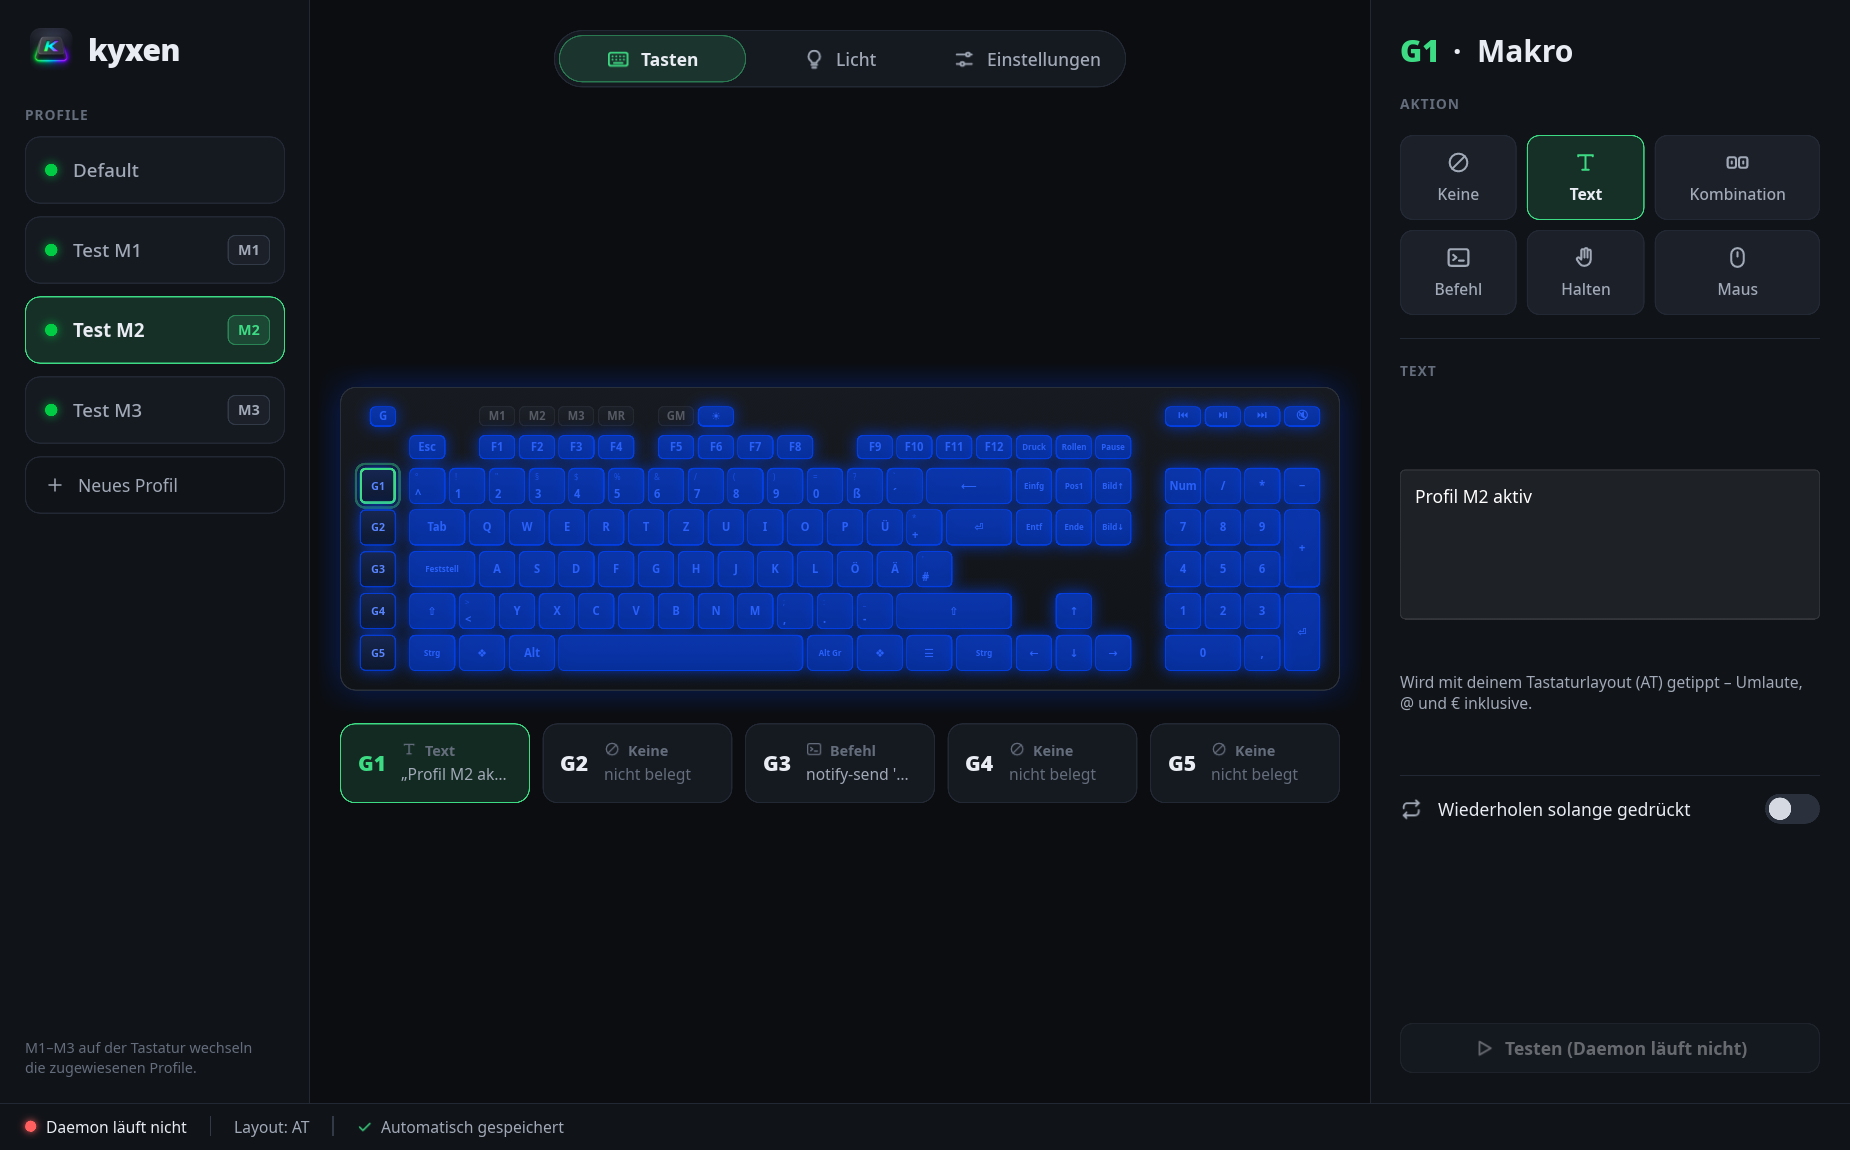
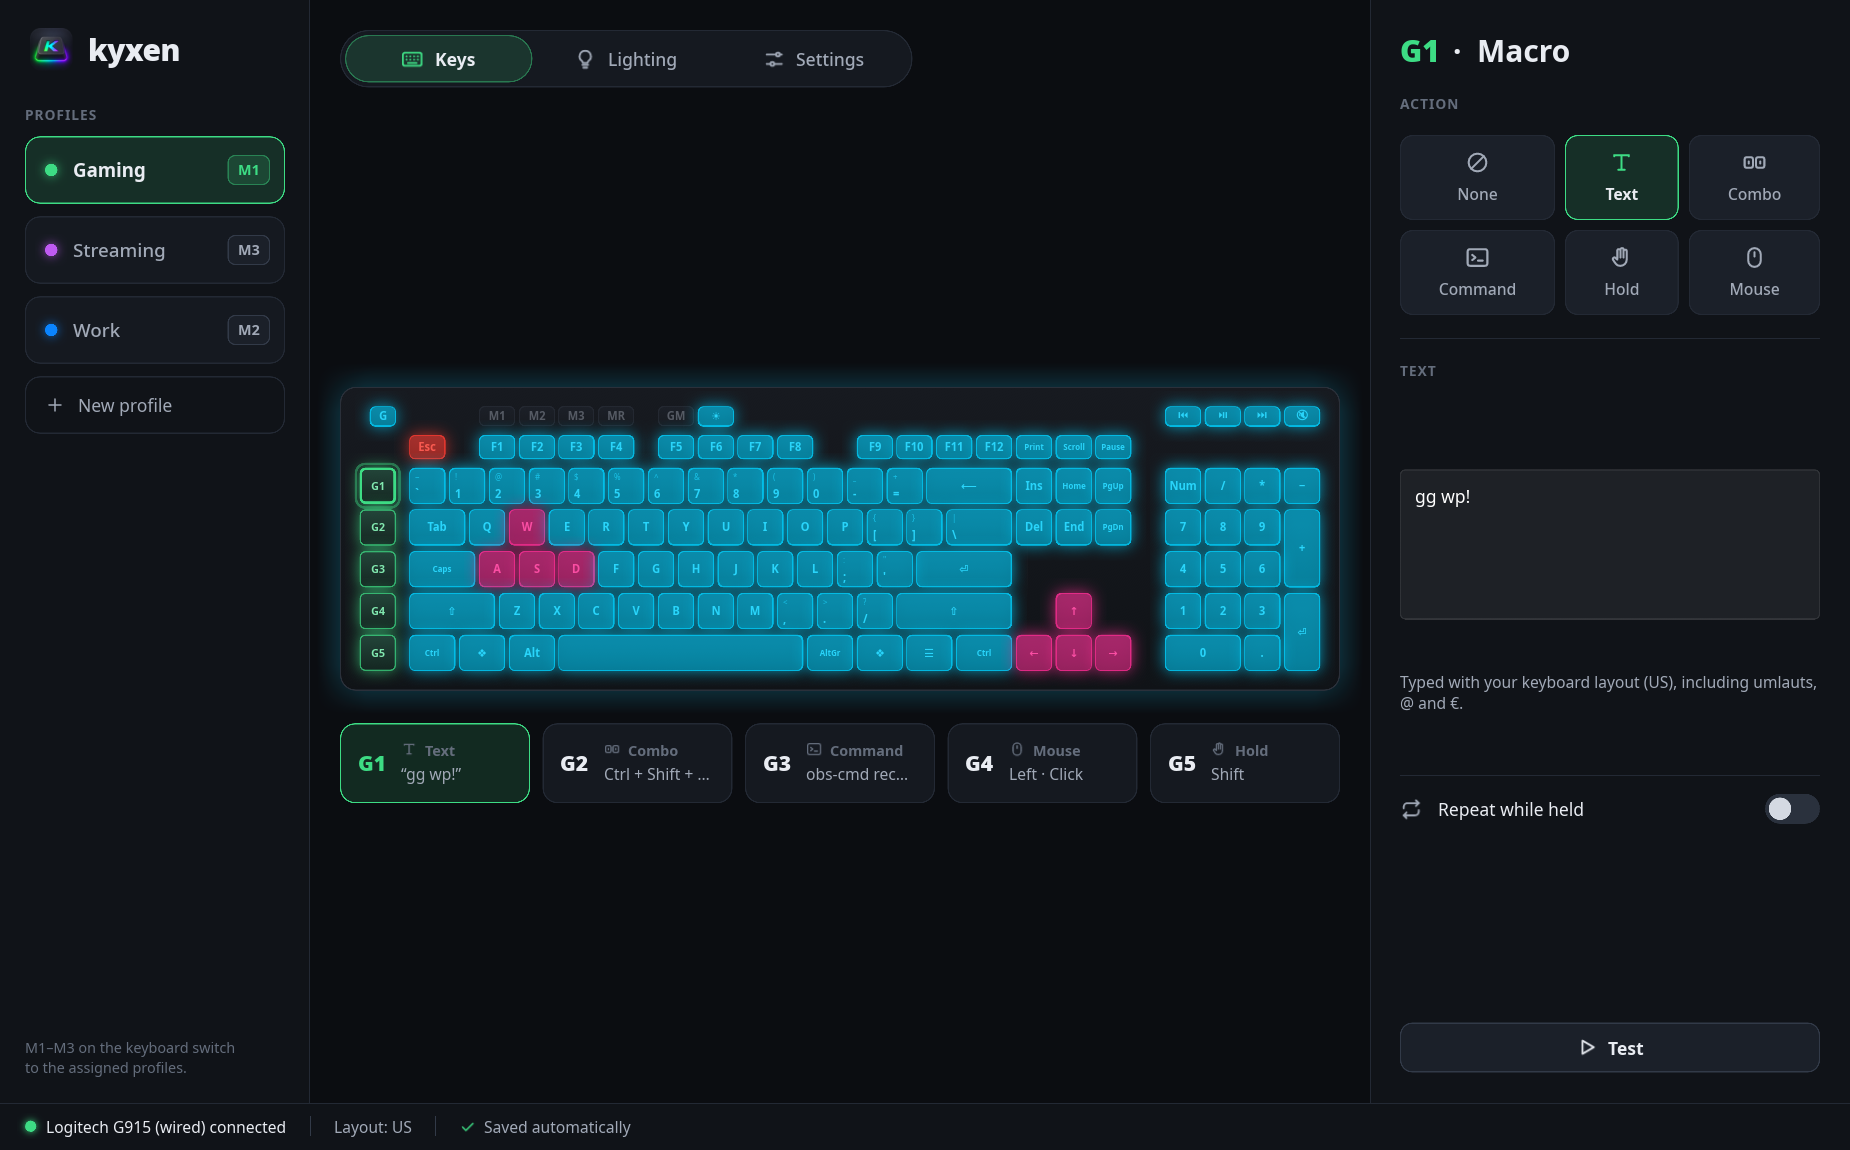
docs: English screenshots of the current app
Taken from a demo config (Gaming / Work / Streaming profiles, US layout).
The G-key summary quotes text in the UI language's quote marks.

Screenshot mode: --layout N.

diff --git a/crates/kyxen-gui/src/main.rs b/crates/kyxen-gui/src/main.rs
@@ -21,9 +21,9 @@ use slint::{ComponentHandle, Timer, TimerMode};
 use tracing_subscriber::EnvFilter;
 pub use ui::*;
 
-/// `--screenshot <file.png> [--tab N] [--gkey N] [--effect N] [--lang N] [--form N]`:
+/// `--screenshot <file.png> [--tab N] [--gkey N] [--effect N] [--lang N] [--form N] [--layout N]`:
 /// render the window after it settled, save it and exit (for visual checks).
-/// `--lang` / `--form` pick the settings choices (0 = automatic).
+/// `--lang` / `--form` / `--layout` pick the settings choices (0 = automatic).
 struct Shot {
     path: String,
     tab: i32,
@@ -31,6 +31,7 @@ struct Shot {
     effect: Option<i32>,
     lang: Option<i32>,
     form: Option<i32>,
+    layout: Option<i32>,
 }
 
 fn parse_shot() -> Option<Shot> {
@@ -47,6 +48,7 @@ fn parse_shot() -> Option<Shot> {
         gkey: value("--gkey").and_then(|v| v.parse().ok()).unwrap_or(1),
         effect: value("--effect").and_then(|v| v.parse().ok()),
         lang: value("--lang").and_then(|v| v.parse().ok()),
+        layout: value("--layout").and_then(|v| v.parse().ok()),
         form: value("--form").and_then(|v| v.parse().ok()),
     })
 }
@@ -178,6 +180,9 @@ fn main() -> Result<(), slint::PlatformError> {
         }
         if let Some(f) = shot.form {
             g.invoke_set_form(f);
+        }
+        if let Some(l) = shot.layout {
+            g.invoke_set_layout(l);
         }
         let weak = window.as_weak();
         Timer::single_shot(Duration::from_millis(1500), move || {

diff --git a/crates/kyxen-gui/src/app.rs b/crates/kyxen-gui/src/app.rs
@@ -655,7 +655,7 @@ impl App {
                 if t.is_empty() {
                     tr.get_no_text().into()
                 } else {
-                    format!("„{t}“")
+                    tr.invoke_quoted(t.into()).into()
                 }
             }
             ActionKind::Combo | ActionKind::HoldToggle => {

diff --git a/README.md b/README.md
@@ -94,6 +94,7 @@ the `.po` file.
 
 ![Keys](docs/screenshots/keys.png)
 ![Lighting](docs/screenshots/lighting.png)
+![Settings](docs/screenshots/settings.png)
 
 ## Permissions
 
